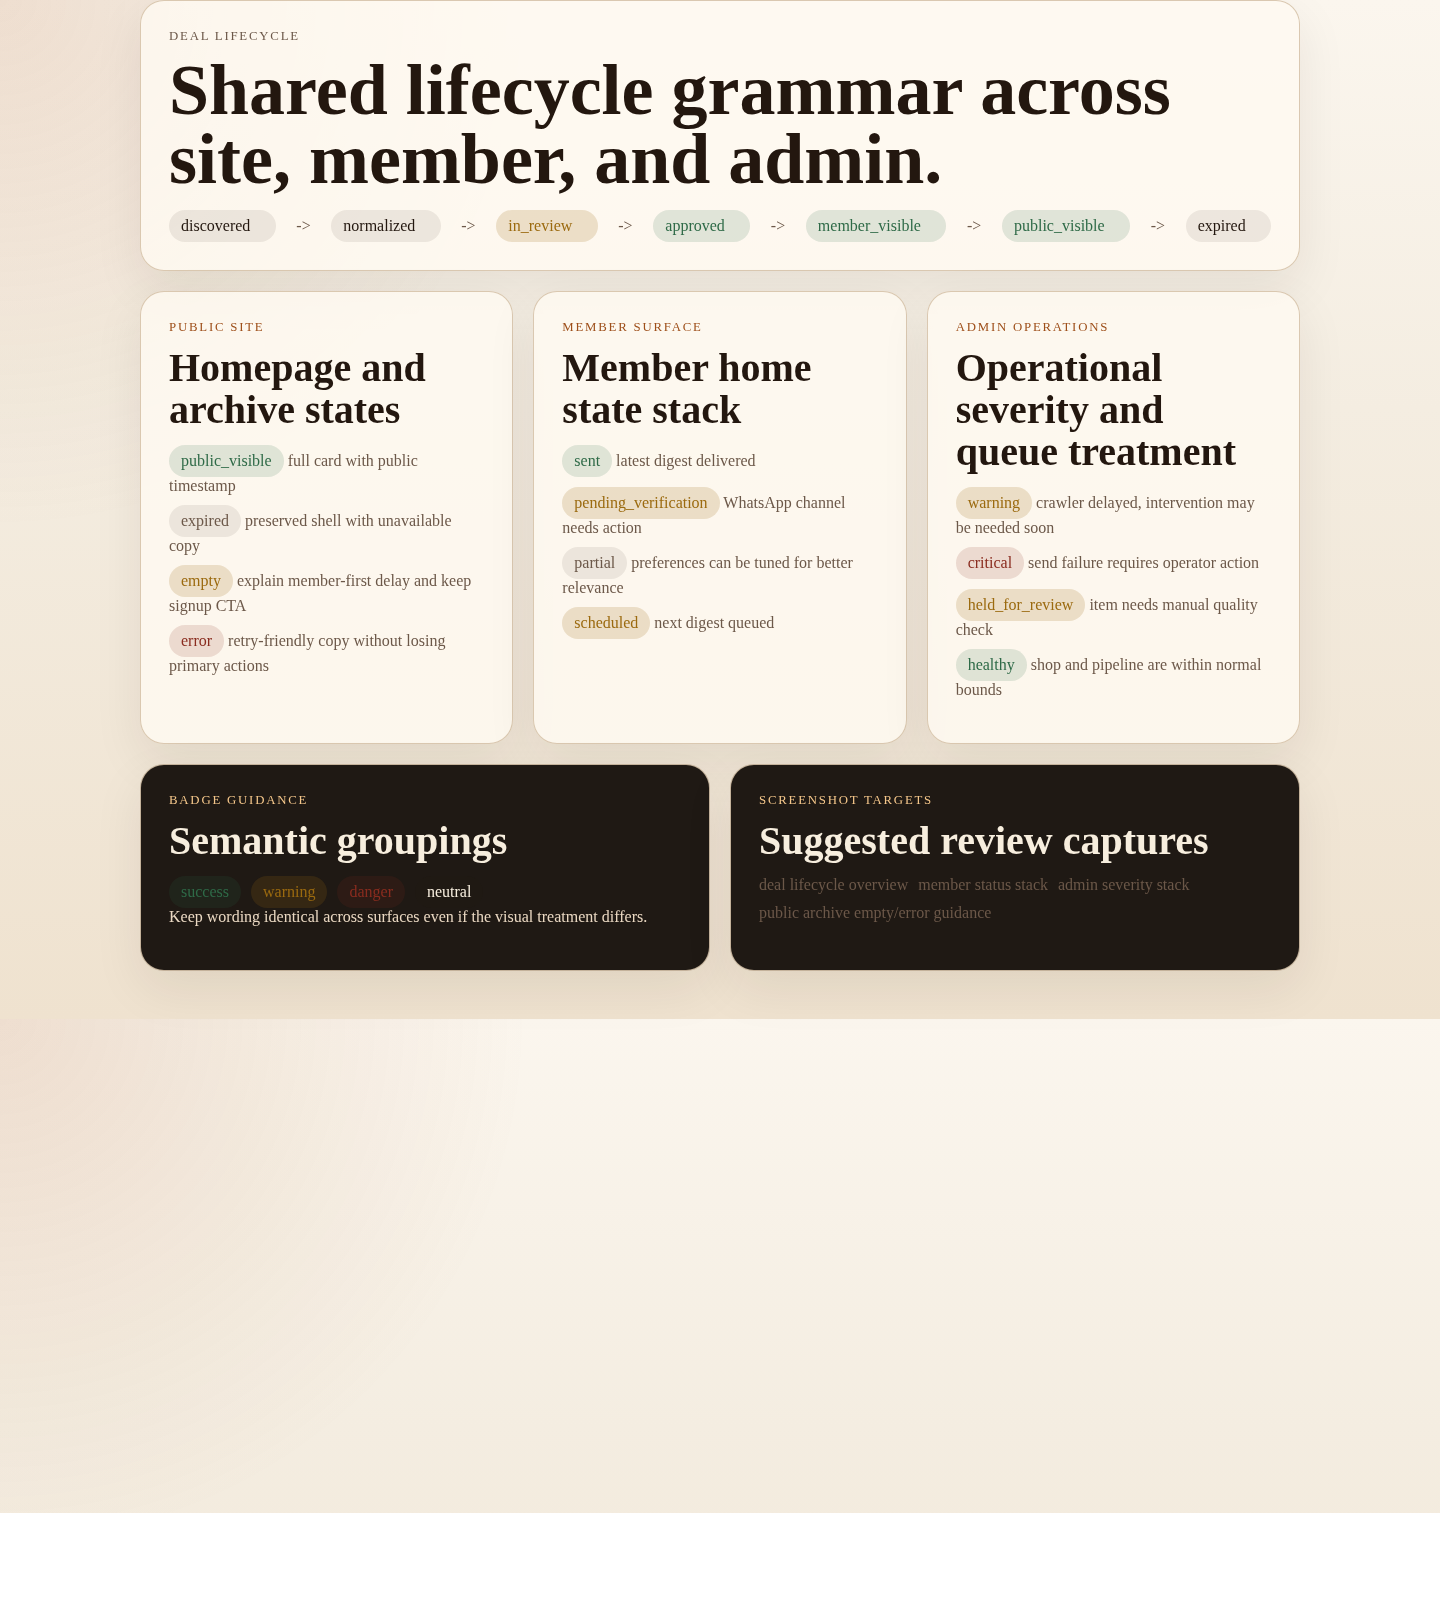
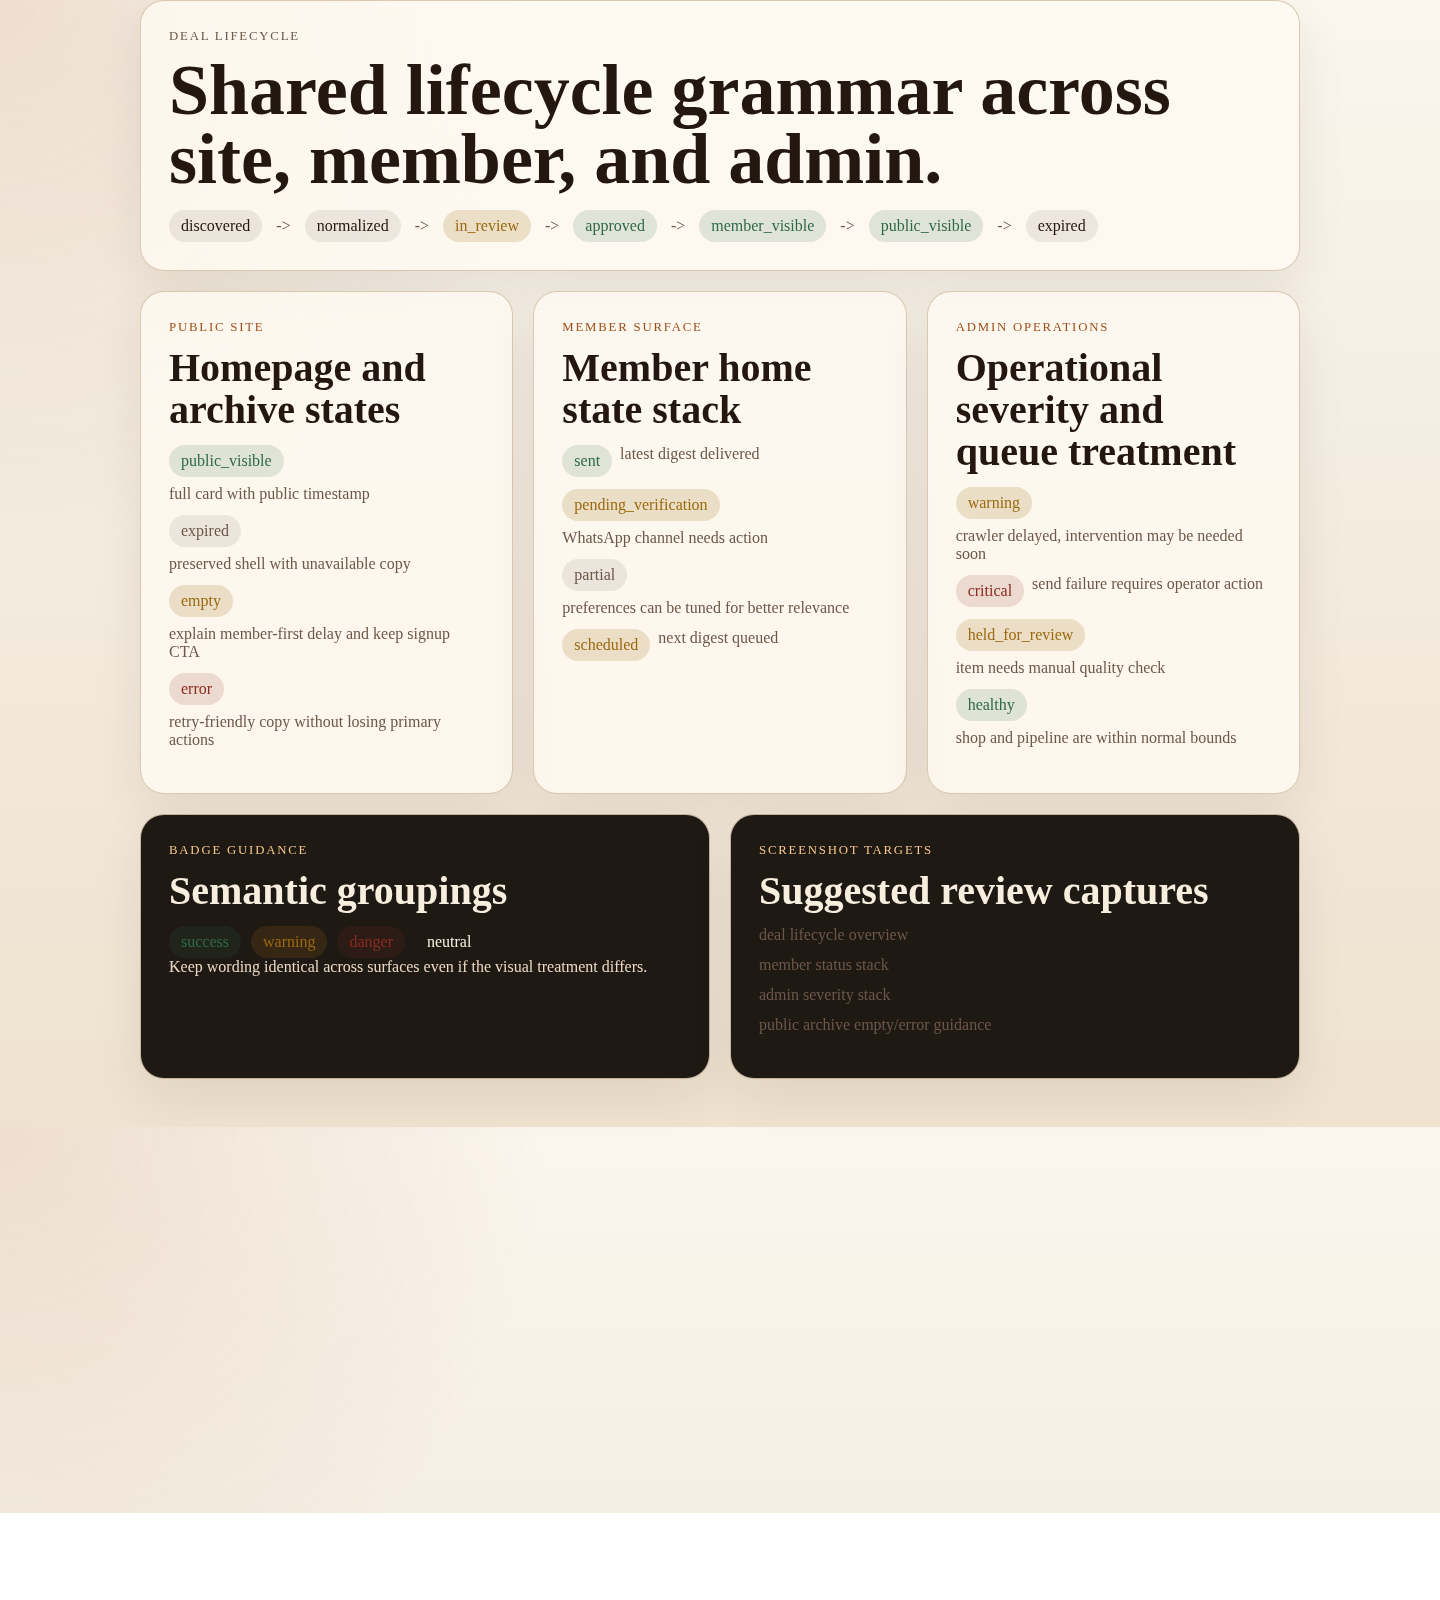
Fix screenshot layout overflow issues

diff --git a/tools/ux-preview/public/styles.css b/tools/ux-preview/public/styles.css
@@ -228,11 +228,17 @@ h3 {
 }
 
 .pill-row,
-.badge-row,
-.stack-list {
+.badge-row {
   display: flex;
   flex-wrap: wrap;
   gap: 10px;
+  padding: 0;
+  list-style: none;
+}
+
+.stack-list {
+  display: grid;
+  gap: 12px;
   padding: 0;
   list-style: none;
 }
@@ -369,13 +375,26 @@ h3 {
 
 .queue-row {
   display: grid;
-  grid-template-columns: 2.3fr 1.1fr 1fr 1fr;
+  grid-template-columns: minmax(0, 2.3fr) minmax(0, 1.1fr) minmax(0, 1fr) minmax(0, 1fr);
   gap: 12px;
   align-items: center;
   padding: 12px 14px;
   border-radius: 16px;
   background: rgba(255, 255, 255, 0.6);
   border: 1px solid rgba(214, 195, 170, 0.8);
+}
+
+.queue-row > span,
+.stack-list li {
+  min-width: 0;
+  overflow-wrap: anywhere;
+}
+
+.stack-list li {
+  display: flex;
+  flex-wrap: wrap;
+  gap: 8px;
+  align-items: flex-start;
 }
 
 .queue-header {
@@ -391,9 +410,9 @@ h3 {
 }
 
 .lifecycle-flow {
-  grid-template-columns: repeat(13, auto);
+  display: flex;
+  flex-wrap: wrap;
   align-items: center;
-  overflow-x: auto;
 }
 
 .flow-arrow {
@@ -407,6 +426,7 @@ h3 {
   min-height: 32px;
   padding: 0 12px;
   background: rgba(35, 23, 15, 0.08);
+  white-space: normal;
 }
 
 .badge-accent {
